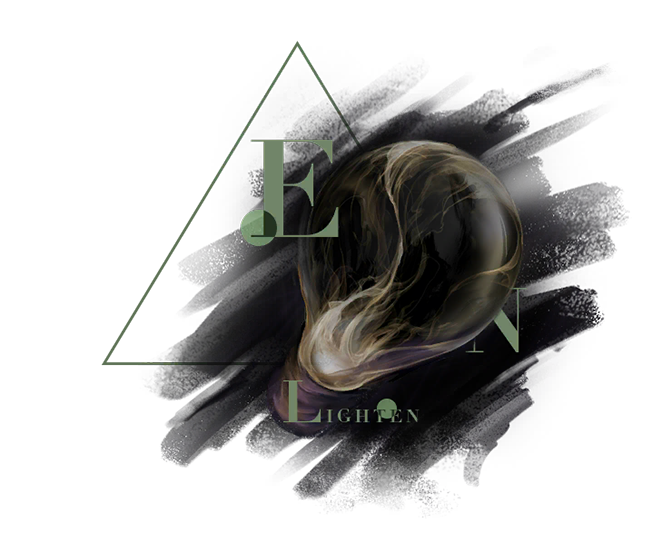
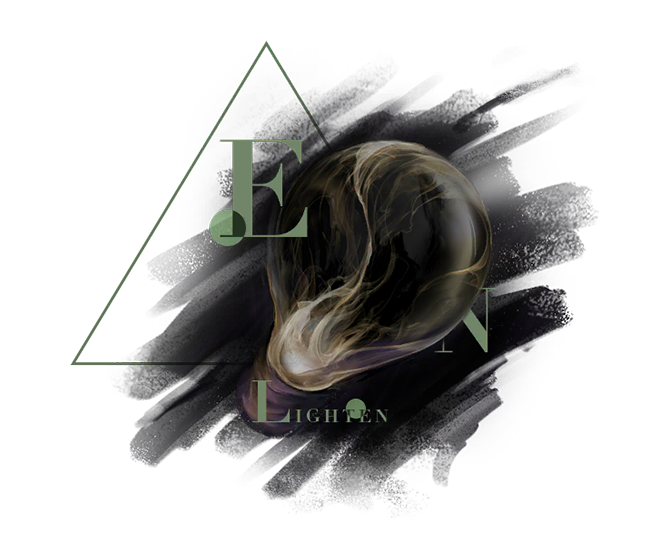
vault backup: 2024-03-23 22:31:26

Changed region(s): [[0.0938, 0.0589, 0.9375, 0.9429]]

diff --git a/200-相从心生/印刻材料/掠影｜Fleeting Memory.md b/200-相从心生/印刻材料/掠影｜Fleeting Memory.md
@@ -1,20 +1,20 @@
 ---
 Name: 掠影
 exonym: Fleeting Memory
-星级: ✦✦✦✦✦
+星级: ✦✦
 tags: 
 cssclasses:
   - book
 强化属性: 
-心相: "[[心相 启寤.png]]"
+心相: "[[心相 掠影.png]]"
 人物: 
 轶事: 
 实装版本: "1.0"
 ---
-![cover](assets/启寤Ⅳ｜Enlighten.assets/心相%20启寤Ⅳ.png)
+![cover](assets/掠影｜Fleeting%20Memory.assets/心相%20掠影.png)
 
 > [!note] 印象｜Impression
-> ![心相 启寤Ⅳ 1|inlL|300](assets/启寤Ⅳ｜Enlighten.assets/心相%20启寤Ⅳ%201.png)
+> ![心相 掠影|inlL|300](assets/掠影｜Fleeting%20Memory.assets/心相%20掠影.png)
 > <p style="font-family: '家族宋', sans-serif; font-size: 22px; line-height: 0.75; text-indent: 0;">掠影<br><span style="font-family: serif; font-size: 14px; color: #888888;">Fleeting Memory</span></p>
 > 
 > 掠过的影子与转瞬即逝的回忆，数不尽的掠影成为了心相的最小单元，组成了情绪、经历与观点。当我们观察心的成像时，便是在记录掠影的集群。

diff --git a/200-相从心生/印刻材料/启寤Ⅰ｜Enlighten.md b/200-相从心生/印刻材料/启寤Ⅰ｜Enlighten.md
@@ -1,7 +1,7 @@
 ---
 Name: 启寤Ⅰ
 exonym: Enlighten
-星级: ✦✦✦
+星级: ✦✦
 tags: 
 cssclasses:
   - book
